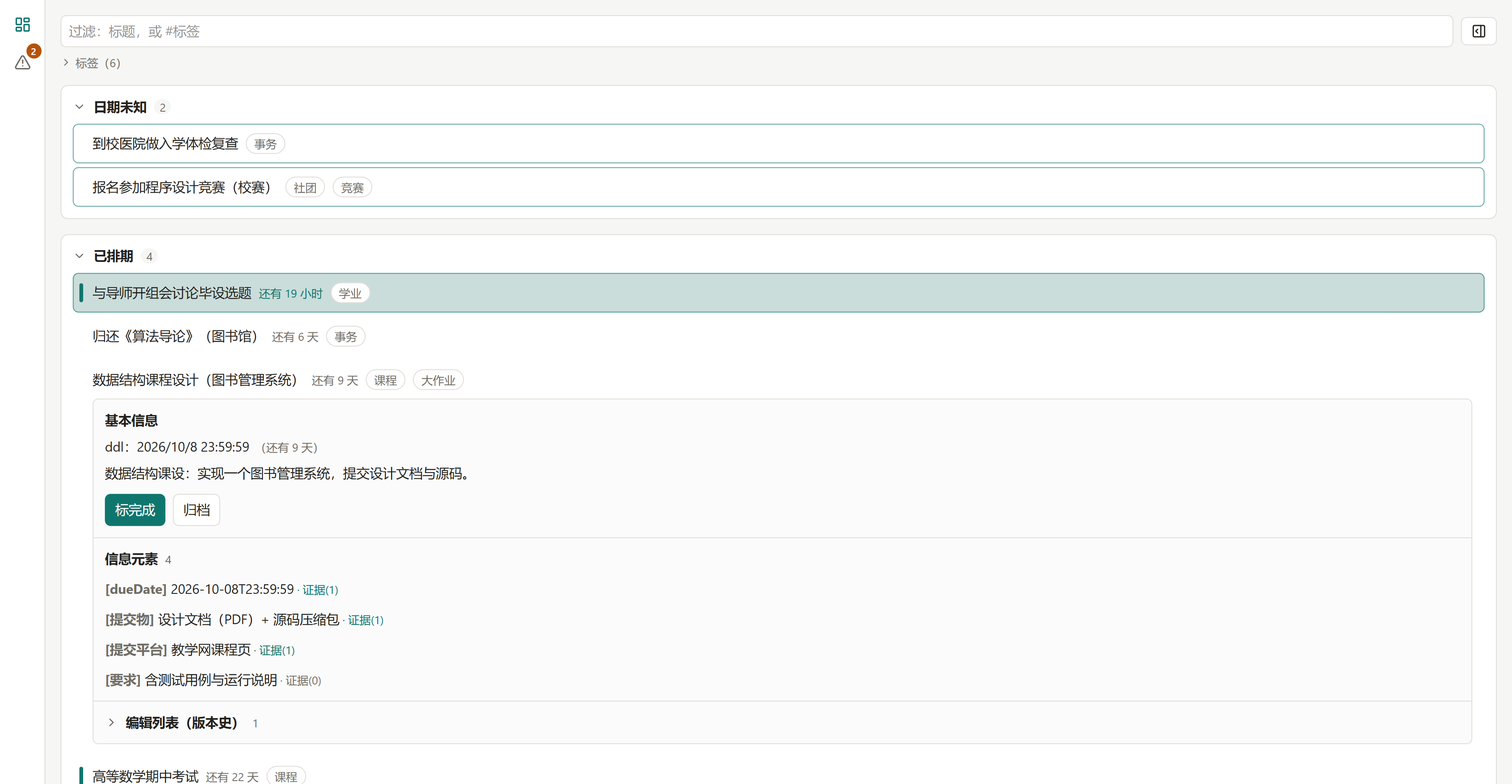
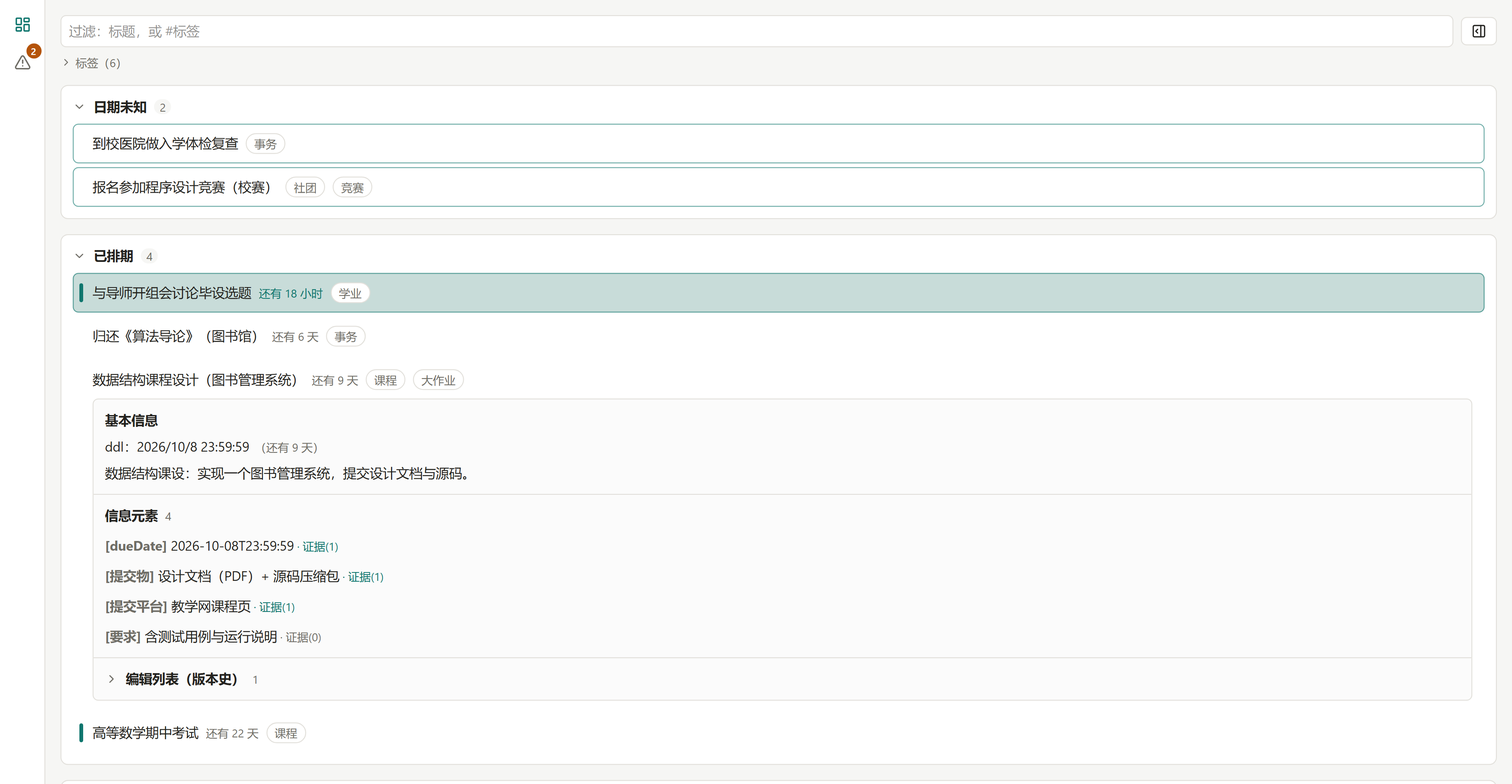
fix: 走查修订④修正——删展开体操作排，行右缘悬停快捷保留（唯一手动入口）

Changed region(s): [[0.0311, 0.621, 0.9956, 1.0]]

diff --git a/apps/web/src/components/Board.tsx b/apps/web/src/components/Board.tsx
@@ -1,5 +1,5 @@
 import { useCallback, useEffect, useMemo, useRef, useState, type ReactNode } from "react";
-import { ChevronDown, ChevronRight } from "lucide-react";
+import { Archive, Check, ChevronDown, ChevronRight, Undo2 } from "lucide-react";
 import {
   dueDateElement,
   itemName,
@@ -14,6 +14,8 @@ import { doneFadeStrength, TINT_CAP_PERCENT, urgencyStrength } from "../lib/urge
 import type { BoardFilter } from "./FilterBar";
 import { api } from "../api";
 import { ItemBody } from "./board/ItemBody";
+
+type RowAction = "complete" | "reopen" | "archive";
 
 // 四段元数据唯一出处（D-80/D-83；D-89 存疑段退场）——段名/提示/空态只改这里，派生物（allRows/段定位/计数）全部由此推导
 type SectionKey = Exclude<keyof BoardView, "failedRawInputs">;
@@ -58,8 +60,8 @@ function fmtDate(iso: string): string {
 }
 
 /** 看板单行（用户 2026-09-27 行布局 v3，借鉴 Todoist/Things 3）：标题 → 相对人话 ddl → tags
- *  同一条阅读线内联（不用视线右缘远跳）；ddl 颜色编码（过期红/临近 accent/远灰），悬停给绝对时间。
- *  行上不挂操作按钮（走查修订④ 2026-09-30：原悬停快捷按钮删除——操作统一在展开体内，此处纯冗余）。
+ *  同一条阅读线内联（不用视线右缘远跳）；ddl 颜色编码（过期红/临近 accent/远灰），悬停给绝对时间；
+ *  右缘只留状态点与新微标。悬停显形快捷按钮（勾=完成/恢复、归档）。
  *  点击整行 = 展开/收起详情（单开互斥由看板保证）；键盘 ↑↓ 选中行有底色。 */
 function Row({
   row,
@@ -69,6 +71,7 @@ function Row({
   viewedLocally,
   onToggle,
   onTag,
+  onQuickAction,
   children,
 }: {
   row: ItemRow;
@@ -78,6 +81,7 @@ function Row({
   viewedLocally: ReadonlySet<string>;
   onToggle: () => void;
   onTag: (tag: string) => void;
+  onQuickAction: (id: string, action: RowAction) => void;
   children: ReactNode;
 }) {
   const { item } = row;
@@ -181,6 +185,44 @@ function Row({
             {t}
           </button>
         ))}
+        <span className="ml-auto flex shrink-0 items-center gap-1 text-xs font-normal text-ink-muted">
+          {item.status !== "archived" && (
+            <button
+              className="row-act"
+              title="归档"
+              onClick={(e) => {
+                e.stopPropagation();
+                onQuickAction(item.id, "archive");
+              }}
+            >
+              <Archive size={13} />
+            </button>
+          )}
+          {item.status === "todo" && (
+            <button
+              className="row-act"
+              title="标完成"
+              onClick={(e) => {
+                e.stopPropagation();
+                onQuickAction(item.id, "complete");
+              }}
+            >
+              <Check size={13} />
+            </button>
+          )}
+          {item.status !== "todo" && (
+            <button
+              className="row-act"
+              title={item.status === "archived" ? "撤回归档" : "恢复待办"}
+              onClick={(e) => {
+                e.stopPropagation();
+                onQuickAction(item.id, "reopen");
+              }}
+            >
+              <Undo2 size={13} />
+            </button>
+          )}
+        </span>
       </div>
       {expanded && (
         // 滚动规（用户 2026-09-26 修订）：max-h + 内滚；不做 overscroll 锁——滚到底自然接页面滚动。
@@ -212,7 +254,7 @@ function Section({
   onToggleFold,
   onToggleExpand,
   onTag,
-  onItemChanged,
+  onQuickAction,
 }: {
   title: string;
   rows: ItemRow[];
@@ -227,7 +269,7 @@ function Section({
   onToggleFold: () => void;
   onToggleExpand: (id: string) => void;
   onTag: (tag: string) => void;
-  onItemChanged: () => void;
+  onQuickAction: (id: string, action: RowAction) => void;
 }) {
   return (
     <section className="rounded-lg border border-line bg-surface p-3">
@@ -264,10 +306,9 @@ function Section({
                   viewedLocally={viewedLocally}
                   onToggle={() => onToggleExpand(row.item.id)}
                   onTag={onTag}
+                  onQuickAction={onQuickAction}
                 >
-                  {expandedId === row.item.id && (
-                    <ItemBody id={row.item.id} onChanged={onItemChanged} />
-                  )}
+                  {expandedId === row.item.id && <ItemBody id={row.item.id} />}
                 </Row>
               ))}
             </ul>
@@ -415,6 +456,23 @@ export function Board({
     setExpandedId(expandedId === id ? null : id);
   };
 
+  /** 行悬停快捷动作：发状态请求 + 刷新看板；展开体随行换段，收起避免旧详情误导。
+   *  失败无按钮级提示（看板无 toast 机制）——刷新让看板如实呈现现状。 */
+  const quickAction = (id: string, action: RowAction) => {
+    const p =
+      action === "complete"
+        ? api.complete(id)
+        : action === "reopen"
+          ? api.reopen(id)
+          : api.archive(id);
+    void p
+      .then(() => {
+        setExpandedId(null);
+        onRefresh();
+      })
+      .catch(() => onRefresh());
+  };
+
   /** 深链（05§三）：展开所在段 → 展开行 → 布局稳定后滚到行并短促高亮（清筛选由 App 统一做）。
    *  token 防同一条深链被看板轮询重放。 */
   useEffect(() => {
@@ -472,7 +530,7 @@ export function Board({
           onToggleFold={() => toggleFold(s.key)}
           onToggleExpand={toggleExpand}
           onTag={onTagClick}
-          onItemChanged={onRefresh}
+          onQuickAction={quickAction}
         />
       ))}
     </main>

diff --git a/apps/web/src/test/itemBody.test.tsx b/apps/web/src/test/itemBody.test.tsx
@@ -81,7 +81,7 @@ describe("ItemBody（展开体，D-80/D-82）", () => {
 
   it("分级默认：基本信息与元素平铺可见、引文收起（点元素展开）、版本史只显计数", async () => {
     stubFetch(makeDetail());
-    render(<ItemBody id="it1" onChanged={() => {}} />);
+    render(<ItemBody id="it1" />);
 
     // 引文默认收起：原文按钮不可见，但证据计数可见
     await waitFor(() => expect(screen.getByText("[dueDate]")).toBeInTheDocument());
@@ -101,21 +101,14 @@ describe("ItemBody（展开体，D-80/D-82）", () => {
     expect(screen.getByText(/新建事项/)).toBeInTheDocument();
   });
 
-  it("按钮随状态切换：待办=标完成；完成=恢复待办（D-82）；存疑按钮随 D-89 退场", async () => {
+  it("展开体内没有操作按钮（走查修订④修正：操作统一走行右缘快捷）；存疑按钮随 D-89 退场", async () => {
     stubFetch(makeDetail());
-    const { rerender } = render(<ItemBody id="it1" onChanged={() => {}} />);
-    await waitFor(() => expect(screen.getByText("标完成")).toBeInTheDocument());
-    expect(screen.queryByText("恢复待办")).not.toBeInTheDocument();
-
-    const base = makeDetail();
-    stubFetch({
-      ...base,
-      item: { ...base.item, status: "done" },
-    });
-    // key 换掉强制重挂载（同 id 不会触发重拉）
-    rerender(<ItemBody key="done" id="it1" onChanged={() => {}} />);
-    await waitFor(() => expect(screen.getByText("恢复待办")).toBeInTheDocument());
+    render(<ItemBody id="it1" />);
+    await waitFor(() => expect(screen.getByText(/基本信息/)).toBeInTheDocument());
     expect(screen.queryByText("标完成")).not.toBeInTheDocument();
+    expect(screen.queryByText("归档")).not.toBeInTheDocument();
+    expect(screen.queryByText("恢复待办")).not.toBeInTheDocument();
+    expect(screen.queryByText("撤回归档")).not.toBeInTheDocument();
     // D-89：解除存疑按钮随存疑 UI 全退场（负断言）
     expect(screen.queryByText(/了解清楚/)).not.toBeInTheDocument();
   });
@@ -136,7 +129,7 @@ describe("ItemBody（展开体，D-80/D-82）", () => {
         },
       }),
     );
-    render(<ItemBody id="it1" onChanged={() => {}} />);
+    render(<ItemBody id="it1" />);
     await waitFor(() => expect(screen.getByText(/还有 4 天/)).toBeInTheDocument());
     // 推断 = 行内后缀开关（与「· 证据(n)」同款，走查修订）：默认收起，点开/再点收
     expect(screen.queryByText(/按往年惯例推算/)).not.toBeInTheDocument();
@@ -148,7 +141,7 @@ describe("ItemBody（展开体，D-80/D-82）", () => {
 
   it("「看原文」打开引文悬浮窗：批次原文 + 高亮引文句", async () => {
     stubFetch(makeDetail());
-    render(<ItemBody id="it1" onChanged={() => {}} />);
+    render(<ItemBody id="it1" />);
     fireEvent.click(await screen.findByText("[dueDate]"));
     // 引文旁标来源（D-89 选 B）：裸 sourceLabel 可见，hover 是**完整身份串**（含其余键）
     const label = screen.getByTitle("QQ（groupId=123 · sender=学习委员）");

diff --git a/apps/web/src/components/board/ItemBody.tsx b/apps/web/src/components/board/ItemBody.tsx
@@ -18,7 +18,7 @@ import { QuoteOverlay } from "./QuoteOverlay";
 
 /** 事项展开体（D-80 手风琴内容）：基本信息开 / 信息元素平铺引文收 / 版本史收只显计数。
  *  滚动四铁规（内滚隔离/sticky/70vh）由父级的展开容器承担，这里只管内容。 */
-export function ItemBody({ id, onChanged }: { id: string; onChanged: () => void }) {
+export function ItemBody({ id }: { id: string }) {
   const [detail, setDetail] = useState<GetItemResult | null>(null);
   const [openQuotes, setOpenQuotes] = useState<readonly string[]>([]);
   const [versionsOpen, setVersionsOpen] = useState(false);
@@ -39,16 +39,6 @@ export function ItemBody({ id, onChanged }: { id: string; onChanged: () => void 
   useEffect(() => {
     reload();
   }, [reload]);
-
-  /** 包一层手动操作：完成后刷新详情 + 通知外层刷看板；失败也重拉详情（让页面如实呈现现状）。 */
-  const act = (p: Promise<unknown>) => {
-    void p
-      .then(() => {
-        reload();
-        onChanged();
-      })
-      .catch(() => reload());
-  };
 
   /** 切换某元素的引文展开（引文是唯一的折叠层，D-80）。 */
   const toggleQuotes = (label: string) => {
@@ -136,23 +126,6 @@ export function ItemBody({ id, onChanged }: { id: string; onChanged: () => void 
             )}
           </div>
         )}
-        <div className="mt-3 flex gap-2">
-          {item.status === "todo" && (
-            <button className="btn btn-accent" onClick={() => act(api.complete(item.id))}>
-              标完成
-            </button>
-          )}
-          {item.status !== "archived" && (
-            <button className="btn" onClick={() => act(api.archive(item.id))}>
-              归档
-            </button>
-          )}
-          {item.status !== "todo" && (
-            <button className="btn" onClick={() => act(api.reopen(item.id))}>
-              {item.status === "archived" ? "撤回归档" : "恢复待办"}
-            </button>
-          )}
-        </div>
       </div>
 
       <div className="border-t border-line p-3">

diff --git a/apps/web/src/index.css b/apps/web/src/index.css
@@ -125,6 +125,9 @@
     @apply border-accent/40 text-accent hover:bg-accent-soft;
   }
   /* 看板行悬停快捷动作（勾/归档/恢复）：平时隐身，行悬停或键盘聚焦显形 */
+  .row-act {
+    @apply inline-flex h-6 w-6 cursor-pointer items-center justify-center rounded-md text-ink-muted opacity-0 transition hover:bg-accent-soft hover:text-accent group-hover:opacity-100 focus-visible:opacity-100;
+  }
   .input {
     @apply w-full rounded-md border border-line bg-surface px-2.5 py-1.5 text-sm text-ink focus:border-accent focus:outline-none;
   }

diff --git a/docs/03-开放问题.md b/docs/03-开放问题.md
@@ -21,7 +21,7 @@
 **走查修订③（2026-09-30）**：设置界面重排为 **macOS 系统设置式分组卡 + 全部即时生效**（用户选型）——分组卡/行原语进 `settings/primitives.tsx`；外观/AI/信源全部「改完即存」（输入框失焦、开关点选），卡尾状态行一闪「已保存」、失败常驻红字（按字段键存，不被别的成功顶掉），**整页无保存按钮**；关闭前先 blur 落一次（含 Esc）。**review 修复**：AI 保存 POST→PUT（存量 404 全坏）、补发管道防吞（过期闭包测试抓出）、number badInput 拒存不当清空、删行防双写、乐观基线防快速连改算错、色板选中环+勾（亮色原来看不见）、触屏删除键常显、状态槽定高防跳版、读失败优先于旧表单。217 测试。
 **设置重排 review-simplify 循环收口（2026-09-30，221 测试，终轮验证「干净」）**：review 3 代理（视觉可用性 / delta 真机 E2E（CDP 探针，写请求浏览器层拦截未碰真库）/ 代码审查）→ 1C（AI 保存 POST 打 PUT 路由 404——存量 bug 被「失焦即存」放大成唯一路径）+ 2H（Esc 关闭不派发 blur 静默丢未失焦输入；AI 忙时静默吞保存并回填擦字）+ 6M（number badInput 误当清空 / 删行 blur+click 双 PUT 可能复活已删行 / 快速连改算错 diff / sticky 失败被成功 flash 顶掉 / 读失败被旧表单掩盖 / 亮色色板选中不可见）→ `66fb3af`；simplify 4 代理（复用/效率/高度/简化）→ errText 收敛 lib/err、Panel 壳 + StatusSlot + Row.children 可选（清 7 处占位 span）、FieldInput 四回调收三回调（删 commitFromRaw）、写管道 write + 基线函数合一、toBody 模块级（删两个零收益 useCallback）、markdown 白名单并入正则 + ul/ol 合并 + 删冗余 flush（node 对拍等价）、api jsonInit/put、行内代码底色修正 → `445c96d`；终轮验证代理（node 对拍 8077 条语料 0 结构差异；写管道四路径逐条核对；新测试真守性探针实测；红线/机械全绿）→ **「干净 / 0 项待修」**（3 条 Low 观察非待修：退化 URL 改按纯文本更合理、行内代码底色边界可辨、注释措辞已修正）。**效率面**：7 项重点实测全亚毫秒（典型 40 条消息重解析 0.068ms/次）——本轮不做，真上流式时再评 Markdown memo。**新增登记**：L22（OverlayShell 触发条件）/ L23（同键在飞并发洞）/ L24（record 条目级约束进契约）。**循环教训**：①「同一事实两处写」（errText 双份、PALETTE_COLORS vs --accent）随改随收口；②收口协议类重构别拆两处各写一半（raw→值换算）；③测试补缺盯「此前零覆盖的写路径」（boolean/select/secret 曾全裸奔）。
 **提示词收口：非事项信息不准入（2026-09-30，用户报「杂碎信息以日期未知形态进了事项」）**：agent0 DIGEST 提示词新增【准入】段——事项 = 有人、有动作、指向未来的「事」（没日期的真事照样建，「没日期」不是拒绝理由）；告知类（生活提醒/背景/联系方式/通报/泛泛要求/制度条款复述）**不建事项、也不进存疑库**（存疑库管「落点拿不准」，不管「不是事项」；零变更合法，原文档案不丢）；拿不准倾向不建。L14 部分兑现：prompt 先落「不建事项」侧，「单开一栏」仍待议。存量 2 条（值班通知、志愿要求）待用户定夺去留。
-**走查修订④（2026-09-30 晚，用户实时走查）**：**删除看板行右缘悬停快捷按钮**（归档/标完成/恢复——用户：「很突兀」）——三种状态的操作在展开体内已齐全（itemBody.test 覆盖：待办=标完成/完成=恢复待办/归档=撤回归档），行上纯冗余；`.row-act` 原语同步删除（零引用）。同期修复：日期未知框线与推断条改跟随主题色（固定蓝 `--info` token 删除，`7737eeb`）；公开仓同步推送。
+**走查修订④（2026-09-30 晚，用户实时走查；当天修正）**：**删除展开体内整排操作按钮**（标完成/归档/恢复——用户：青色高亮的「标完成」「既功能冲突也长得吸引注意力很丑」，与行右缘悬停快捷重复）。**操作入口统一为行右缘悬停快捷按钮**（todo=勾+归档 / done=归档+恢复待办 / archived=撤回归档）；`ItemBody` 自此无写操作（其 act/api 写链一并删除，测试改为负断言守门）。⚠ 教训：当天上午把用户「删掉吧」误读为删行右缘（`d8f3fdd`），真意是删展开体那排——已回滚修复。同期：日期未知框线与推断条改跟随主题色（固定蓝 `--info` token 删除，`7737eeb`）。
 **发布包（2026-09-30 晚，用户：「能不能 build 成一个 server 包，直接下载执行」）**：**`npm run build:release`**（`scripts/build-release.mjs`）→ 免安装 Windows 便携包 zip（约 35MB：vite 前端 + esbuild 服务端单文件 + 内置 node.exe + 精简 better-sqlite3 原生模块；createRequire banner 修 ESM 下的 CJS require）。server 配套：**前端静态合并**（@fastify/static，web/dist 存在时；SPA 兜底只拦非 /api GET）、`data/` 目录自建、`PORT` 环境变量（默认 3001）。**真机验证**：zip 全新解压 → 内置 node 直启 → HTML/JS/CSS/API/兜底全对 + 无头浏览器渲染通过。GitHub Release v0.1.0 已挂。
 **review-simplify 循环完成（2026-09-30，两轮至「干净 / 0 项待修」，204 测试）**：review 3 代理（1C 审核页假空态/4H：Esc 死代码·移除失败静默·淡出数值不自洽·history「全量」失真/6M+zod4 default 陷阱等）→ `7c57115`；simplify 4 代理（lib/urgency 曲线同层化·SettingFieldSchema 六型拆分+落库前校验·Board 段名派生·api ensureOk·Banner·测试 helpers）→ `18bb71c`；终轮验证抓 M1（坏声明 error 被 startSources 抹掉+陈旧 schema 续供）→ `2089080`；收敛验证「干净」。**循环教训**：①「全量」类表述要对着代码核（D-89 曾误述现状）；②新语义删除前先问「这个状态还有没有别的写者」（startSources 抹错）；③声明校验要做在产生处，读路径只兜底。
 

diff --git a/docs/05-UI重搓.md b/docs/05-UI重搓.md
@@ -32,7 +32,7 @@
 - **四段**：日期未知 → 已排期 → 已完成 → 已归档（~~存疑段~~ D-89 退场——拿不准的信息进**存疑信息库**，独立审核页见 §五「存疑库审核页」；归档 = 用户直接归档，D-83 最小归档已启用；搁置流仍延后）。
 - 每段带计数头；**已完成/已归档默认折叠**，折叠状态与对话面板开合一起进设置记忆。
 - **临近渐强（用户 2026-09-27 二轮：立方浓淡曲线）**：待办行背景按 ddl 临近程度从背景色向主题强调色连续渐变（5 天窗口，强度 = 进度³）——7h≈83%、2d≈22%、4.5d≈0.1%，临期急剧加深、远期几乎隐形；过期行走红色描边语义，不参与渐变。
-- **行布局 v3（用户 2026-09-27，借鉴 Todoist/Things 3）**：**标题 → 相对人话 ddl → tags 内联同一条阅读线**（不做右缘远跳）；ddl 颜色编码——过期红 / 临近 accent / 远灰，悬停给绝对时间（相对时间用 shared `relativeDueText`：还有 3 天 / 已过期 2 天）；右缘不挂操作（**2026-09-30 走查修订④**：原悬停快捷按钮删除——操作统一在展开体内）。
+- **行布局 v3（用户 2026-09-27，借鉴 Todoist/Things 3）**：**标题 → 相对人话 ddl → tags 内联同一条阅读线**（不做右缘远跳）；ddl 颜色编码——过期红 / 临近 accent / 远灰，悬停给绝对时间（相对时间用 shared `relativeDueText`：还有 3 天 / 已过期 2 天）；右缘悬停快捷按钮保留——唯一手动操作入口（2026-09-30 修订④修正）。
 - **四点标记体系**（最小、不抢标题，位置统一在标题右侧）：
 
 | 标记 | 形态 | 悬停提示 |
@@ -60,9 +60,9 @@
 
 - **引文 → 悬浮窗看原文**（㉜）：点引文弹出 ~640px 浮层，显示**所属批次完整原文**并**高亮引文那句**（indexOf 定位）、内部可滚；点外部 / Esc 关闭。
 - **引文旁标来源（D-89 选 B）**：每条引文旁显示所属批次的 `sourceLabel` 小字（灰）；hover = `sourceIdentityLabel` 全串（含 groupId/sender 等）。数据走详情已有的 fragments→rawInputs，零新查询。
-- **操作按钮**：标完成 / **恢复待办**（D-82：误标可逆，对称小动作）/ ~~解除存疑~~（D-89 随段退场）/ **归档**（D-83 最小归档：进归档段，恢复走恢复待办）——按钮集随状态显隐；**展开体内是唯一操作入口**（走查修订④：行上快捷按钮删除）。
-- **行快捷按钮（D-83）**：~~行悬停显形——todo 行 = 勾 + 归档；done 行 = 归档 + 恢复待办；archived 行 = 撤回归档；点击后收起展开体并刷新。~~ **2026-09-30 走查修订④删除**（用户：「很突兀」；展开体内操作已齐全，行上纯冗余）。
-- **左缘状态条（用户 2026-09-27 定稿；D-89 修订）**：~~存疑琥珀条、推断蓝条同位叠放~~ → 仅存**推断主题色条**（accent，跟色板走；2026-09-30 修：原固定蓝 info 不跟色板，token 已删）；悬停给全文。~~右缘只留快捷按钮~~（走查修订④删除）。
+- **操作按钮**：标完成 / **恢复待办**（D-82：误标可逆，对称小动作）/ ~~解除存疑~~（D-89 随段退场）/ **归档**（D-83 最小归档：进归档段，恢复走恢复待办）——**操作统一走行右缘悬停快捷**（2026-09-30 修订④：展开体内整排按钮删除——高亮标完成抢眼，且与行快捷重复）。
+- **行快捷按钮（D-83）**：行悬停显形——todo 行 = 勾 + 归档；done 行 = 归档 + 恢复待办；archived 行 = 撤回归档；点击后收起展开体并刷新。**（2026-09-30 修订④修正后保留——为唯一手动操作入口；当天上午曾误删，已回滚）**
+- **左缘状态条（用户 2026-09-27 定稿；D-89 修订）**：~~存疑琥珀条、推断蓝条同位叠放~~ → 仅存**推断主题色条**（accent，跟色板走；2026-09-30 修：原固定蓝 info 不跟色板，token 已删）；悬停给全文。右缘只留快捷按钮（修订④修正后保留）。
 - **已完成淡出（二轮；D-89 调参 → 走查修订② 2026-09-30）**：改用主题强调色、同款立方曲线（5 天窗口**封顶 40%** = 待办渐强同档最大——30% 时 11h 内的 todo 比刚完成还亮，与「刚完成最亮」矛盾；锚定**完成时刻**而非最后活动时刻）。
 - **已完成段排序（用户 2026-09-27 三批）**：按完成时刻倒序，最新完成在最上（与淡出梯度同向）。
 - **归档撤回（用户 2026-09-27 三批）**：已归档行的「撤回归档」只撤归档状态——若归档前已完成，撤回后回到**已完成段**（不强制回待办）；归档段按归档时刻倒序。

diff --git a/docs/01-规格.md b/docs/01-规格.md
@@ -160,14 +160,14 @@
 ### 4.3 排序与看板（状态制，四段；D-80 五段 → D-89 四段）
 
 - **看板是一个列表**，按确定程度分四段：**日期未知 → 已排期 → 已完成 → 已归档**。已完成/已归档默认折叠；归档 = 用户直接归档（D-83 最小归档已启用）；搁置流 ⏸ 延后（L-17，用户 2026-09-28：暂时不需要）。没有第二个视图，没有独立分区。~~存疑段~~ 已随 D-89 退场（拿不准一律进存疑信息库 §4.12，独立审核页）。
-- **看板行布局（D-80；用户 2026-09-27 定稿 v3，借鉴 Todoist/Things 3）**：行上放**标题 → 相对人话 ddl → tags 内联**（同一阅读线，不右缘远跳）；ddl 颜色编码（过期红/临近强调/远灰），绝对时间悬停可见；**过期行 = 淡红底 + 行内时间字标红**（用户 2026-09-27 简化：去框留底，轻量提示；替代 D-34 的最小描边）；**推断 = 左缘内缩状态条**（主题色，悬停给全文；状态标记不做读目标）。推断说明等细节仍看展开详情。~~存疑琥珀条~~ 已随 D-89 退场。**行右缘不挂操作按钮**（2026-09-30 走查修订④：原悬停快捷按钮删除——操作统一在展开体内）。
+- **看板行布局（D-80；用户 2026-09-27 定稿 v3，借鉴 Todoist/Things 3）**：行上放**标题 → 相对人话 ddl → tags 内联**（同一阅读线，不右缘远跳）；ddl 颜色编码（过期红/临近强调/远灰），绝对时间悬停可见；**过期行 = 淡红底 + 行内时间字标红**（用户 2026-09-27 简化：去框留底，轻量提示；替代 D-34 的最小描边）；**推断 = 左缘内缩状态条**（主题色，悬停给全文；状态标记不做读目标）。推断说明等细节仍看展开详情。~~存疑琥珀条~~ 已随 D-89 退场。**行右缘悬停快捷按钮保留**（唯一手动操作入口；2026-09-30 修订④：删的是展开体内整排按钮）。
 - **已排期段只按 ddl 时间排序。** ❌ 不做重要性字段、不做优先级打分——主观重要性被"水课偏差"污染：越水的课越容易漏，主观排序会系统性地把最容易漏的事排到最后。
 - **列表就是事项本身**（单一节点，无父子、无容器）。同一件事只能出现在一行。
 - ~~存疑段置顶提醒~~（D-89 退场）：拿不准的信息一律进**存疑信息库**（§4.12）独立审核页（活动栏入口 + needsHuman 倒序 + 移动确认移除，D-89），不占看板。
 - **状态流转 = 改一个状态字段**，不是在容器之间搬运数据。
 - **事项详情 = 看板行内展开**（手风琴、单开互斥）：展开体最大 ≈70% 视口、**内部滚动**、滚到顶/底**自然带动页面**（用户 2026-09-27 修订：不锁 overscroll）；框内不放重复标题/收起钮（行标题常驻即收起入口，用户 2026-09-27 修订）；分级默认——基本信息（含摘要，与元素区不重复）、元素级引文收起、编辑列表收起只显计数（D-80）。
 - **按标签筛选 / 文本过滤**为客户端行为（D-80 随 UI 重搓交付；用户 2026-09-27 改版：搜索框 `#` 唤起标签下拉、Enter 成 token，选中 token 挂框侧、未选中标签不铺开，多 token AND 收窄）。
-- **行快捷按钮（D-83）**：~~悬停显形——todo 行 = 勾（标完成）+ 归档；done 行 = 归档 + 恢复待办；archived 行 = 恢复待办。~~ **2026-09-30 走查修订④整排删除**（操作统一在展开体；用户反馈突兀）。
+- **行快捷按钮（D-83）**：悬停显形——todo 行 = 勾（标完成）+ 归档；done 行 = 归档 + 恢复待办；archived 行 = 恢复待办。**（2026-09-30 修订④修正后保留——唯一手动操作入口；展开体内整排按钮同日删除）**
 - **对话 @ 提及（D-83）**：输入框 `@` 唤起事项下拉，提及随请求上传、服务端注入给前台做指代消解（「就是那条」不用猜）。
 
 ### 4.4 证据链：平等的来源构成链
